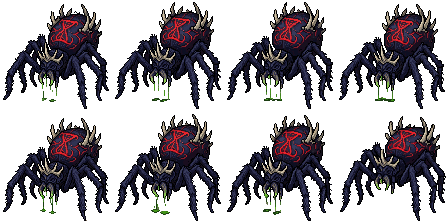
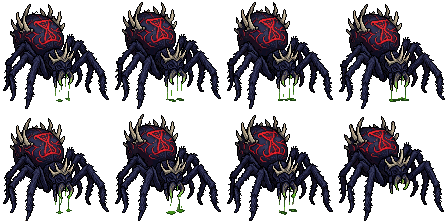
Królowa Pająków przodem do gracza, mniejsze kokony i owinięte ofiary
Na obrotach z PixelLab królowa patrzy w lewo, a gra zakłada potwora patrzącego
w prawo, więc stawała do gracza tyłem - tools/pixellab_sheets.py odbija jej klatki
(creature mirror). Kokony z uwięzionymi ludźmi zmniejszone do 60% (pair scale)
i owinięte ofiary do połowy (trimmed scale, PROP_SCALE) - próbkowanie najbliższym
pikselem; położenie kokona w scenie i osadzenie ofiary (prop_sinks) dopasowane.

Claude-Session: https://claude.ai/code/session_01Ves32DtzzGKKL855JWHunp

diff --git a/tools/pixellab_sheets.py b/tools/pixellab_sheets.py
@@ -86,12 +86,23 @@ def leshy():
     sheet("leshy", rows, os.path.join(ANCIENT, "leshy_pl.png"))
 
 
-def creature(name, walk, idle, windup, strike, extra=None):
-    """Arkusz 4x2: chód (4), spoczynek (2), zamach, cios. `extra` zastępuje klatki 5-7."""
+def creature(name, walk, idle, windup, strike, extra=None, mirror=False):
+    """Arkusz 4x2: chód (4), spoczynek (2), zamach, cios. `extra` zastępuje klatki 5-7.
+    `mirror` odbija każdą klatkę w poziomie - gra zakłada, że potwór na rysunku patrzy w prawo
+    (Goblin/Boss odbijają go przy ruchu w lewo), a niektóre obroty z PixelLab patrzą w lewo."""
     row2 = [idle, idle, windup, strike]
     if extra:
         row2 = [idle] + extra
-    sheet(name, [walk, row2], os.path.join(ANCIENT, name + "_pl.png"))
+    path = os.path.join(ANCIENT, name + "_pl.png")
+    sheet(name, [walk, row2], path)
+    if mirror:
+        img = Image.open(path)
+        cell_w, cell_h = img.width // 4, img.height // 2
+        out = Image.new("RGBA", img.size)
+        for i in range(8):
+            box = ((i % 4) * cell_w, (i // 4) * cell_h, (i % 4 + 1) * cell_w, (i // 4 + 1) * cell_h)
+            out.paste(img.crop(box).transpose(Image.Transpose.FLIP_LEFT_RIGHT), box[:2])
+        out.save(path)
 
 
 def creatures():
@@ -119,8 +130,9 @@ def creatures():
              extra=[pose("werewolf", "frenzy_0"), pose("werewolf", "frenzy_1"), pose("werewolf", "frenzy_3")])
     creature("bies", walk("bies"), rot("bies"), None, None,
              extra=[pose("bies", "roar_2"), pose("bies", "slash_1"), pose("bies", "slash_3")])
+    # królowa na obrotach z PixelLab patrzy w lewo - odbita, żeby nie stała do gracza tyłem
     creature("spider_queen", walk("queen"), rot("queen"), None, None,
-             extra=[pose("queen", "spray_3"), pose("queen", "summon_2"), pose("queen", "leap_2")])
+             extra=[pose("queen", "spray_3"), pose("queen", "summon_2"), pose("queen", "leap_2")], mirror=True)
 
 
 def glow_shroom():
@@ -201,8 +213,9 @@ def fade_roots(img):
     return base
 
 
-def trimmed(src, out, keep_light=False, soft_base=False, sink=None):
-    """Pojedyncza grafika przycięta do treści (dół = podstawa obiektu)."""
+def trimmed(src, out, keep_light=False, soft_base=False, sink=None, scale=1.0):
+    """Pojedyncza grafika przycięta do treści (dół = podstawa obiektu).
+    `scale` zmniejsza wynik (próbkowanie najbliższym pikselem, bez rozmycia)."""
     img = _open(src)
     if keep_light:  # pajęczyna na ziemi: tylko jasne nitki, bez ciemnego tła
         px = img.load()
@@ -214,6 +227,8 @@ def trimmed(src, out, keep_light=False, soft_base=False, sink=None):
     if soft_base:
         soften_base(img)
     img = img.crop(img.getbbox())
+    if scale != 1.0:
+        img = img.resize((round(img.width * scale), round(img.height * scale)), Image.Resampling.NEAREST)
     if soft_base:
         base = fade_roots(img)
         img = img.crop((0, 0, img.width, img.getbbox()[3]))
@@ -226,8 +241,9 @@ def trimmed(src, out, keep_light=False, soft_base=False, sink=None):
     return img
 
 
-def pair(first, second, out, soft_base=False):
-    """Dwie klatki obok siebie (np. drzewo uśpione / przebudzone), wyrównane do dołu."""
+def pair(first, second, out, soft_base=False, scale=1.0):
+    """Dwie klatki obok siebie (np. drzewo uśpione / przebudzone), wyrównane do dołu.
+    `scale` zmniejsza wynik (próbkowanie najbliższym pikselem, bez rozmycia)."""
     a, b = _open(first), _open(second)
     if soft_base:
         soften_base(a)
@@ -244,6 +260,9 @@ def pair(first, second, out, soft_base=False):
     for i, (img, box) in enumerate(((a, box_a), (b, box_b))):
         crop = img.crop(box)
         out_img.alpha_composite(crop, (i * w + (w - crop.width) // 2, h - crop.height))
+    if scale != 1.0:
+        cell_w, cell_h = round(w * scale), round(h * scale)
+        out_img = out_img.resize((cell_w * 2, cell_h), Image.Resampling.NEAREST)
     out_img.save(os.path.join(ANCIENT, out))
     if sink:
         SINKS[out[:-4]] = sink
@@ -263,6 +282,8 @@ def strip(sources, out):
 PROPS = {"menhir_0": 0, "menhir_1": 1, "menhir_2": 2, "altar_stump": 3, "fallen_log": 4, "claw_tree": 5,
          "broken_tree": 6, "skull_totem": 7, "wrapped_victim": 10, "egg_sac": 11, "ancient_stump": 12,
          "bone_pile": 13, "mossy_rock": 14, "rotten_stump": 15}
+## Zmniejszenie niektórych obiektów (owinięta ofiara była ponad 2 razy dłuższa niż wzrost postaci).
+PROP_SCALE = {"wrapped_victim": 0.5}
 DECOR = [2, 3, 4, 5, 6, 7, 8, 9, 13, 14, 15, 18, 20, 31, 32, 34, 37, 38, 44, 47, 48, 51, 57, 60, 63]
 REMAINS = [22, 23, 24, 26, 40, 41]  # czaszka, miecz, dzban, kości, latarnia, plecak - ślady poszukiwaczy
 
@@ -275,12 +296,14 @@ def props():
     awake = "%s/trees/awake.png" % a
     pair(face, awake if os.path.exists(os.path.join(SRC, awake)) else face, "ancient_tree.png", soft_base=True)
     for name, i in PROPS.items():
-        trimmed("%s/props/frame_%d.png" % (a, i), name + ".png", sink="trunk" if name in ("claw_tree", "broken_tree") else 0.12)
+        trimmed("%s/props/frame_%d.png" % (a, i), name + ".png", sink="trunk" if name in ("claw_tree", "broken_tree") else 0.12,
+                scale=PROP_SCALE.get(name, 1.0))
     for i in range(3):
         lit = "%s/props/menhir_%d_lit.png" % (a, i)
         base = "%s/props/frame_%d.png" % (a, i)
         pair(base, lit if os.path.exists(os.path.join(SRC, lit)) else base, "menhir_%d.png" % i)
-    pair("%s/props/frame_8.png" % a, "%s/props/frame_9.png" % a, "cocoon.png")
+    # kokon z uwięzionym człowiekiem - zmniejszony, żeby człowiek w środku miał mniej więcej wzrost postaci
+    pair("%s/props/frame_8.png" % a, "%s/props/frame_9.png" % a, "cocoon.png", scale=0.6)
     trimmed("%s/webs/frame_0.png" % a, "web_huge.png", sink=0.15)
     trimmed("%s/webs/frame_1.png" % a, "web_big.png", keep_light=True)
     trimmed("%s/webs/frame_2.png" % a, "web_tangle.png", keep_light=True)

diff --git a/CLAUDE.md b/CLAUDE.md
@@ -254,6 +254,9 @@ Konkretne poprawki istniejących krain i postaci, zgłoszone przez autora po gra
   przy śmierci), Gnilec (zamach, miażdżenie i skok, żółć, ryk), Żmij (zionięcie, spadające kule ognia, lądowanie
   z ognistym kręgiem, ogniste słupy) i Wij (wzrok spod powiek, kłąb mroku, korzenie szponów); własne `_fx_engage` /
   `_fx_phase` / `_fx_death` tam, gdzie pasują.
+- [x] Królowa Pająków nie stoi już do gracza tyłem (na obrotach z PixelLab patrzyła w lewo - `tools/pixellab_sheets.py`,
+  `creature(..., mirror=True)` odbija klatki); mniejsze kokony z uwięzionymi ludźmi (`pair(..., scale=0.6)`, 33 zamiast
+  55 px) i owinięte ofiary (`PROP_SCALE` - połowa, 30 zamiast 61 px) - człowiek mniej więcej wzrostu postaci.
 - [ ] Wędrowny kupiec Hasan ma w puli tylko 3 towary (`Settlement.MERCHANT_POOL`) od usunięcia kamieni zaklinających,
   więc jego oferta się nie zmienia - do uzupełnienia nowymi towarami.
 
